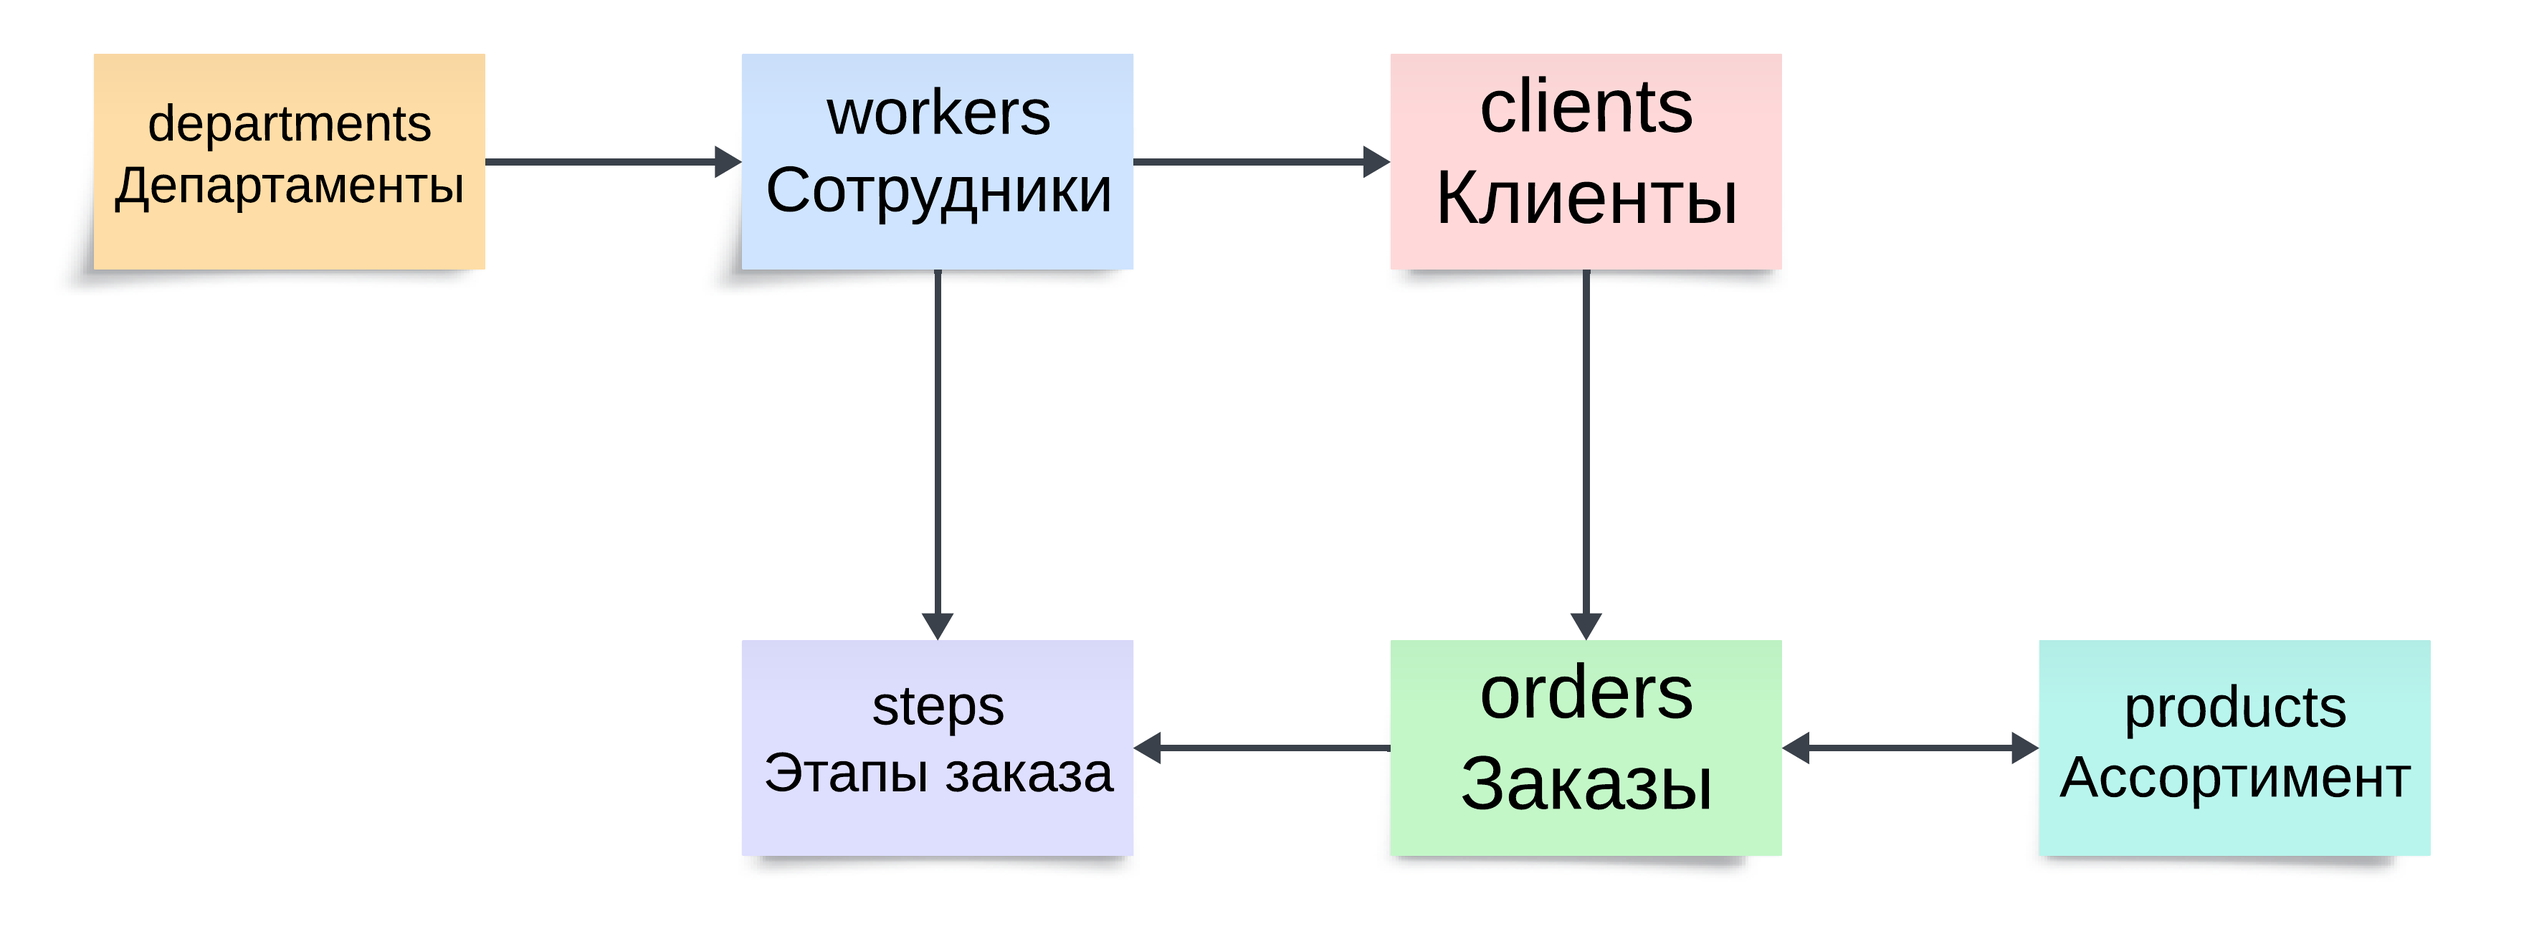
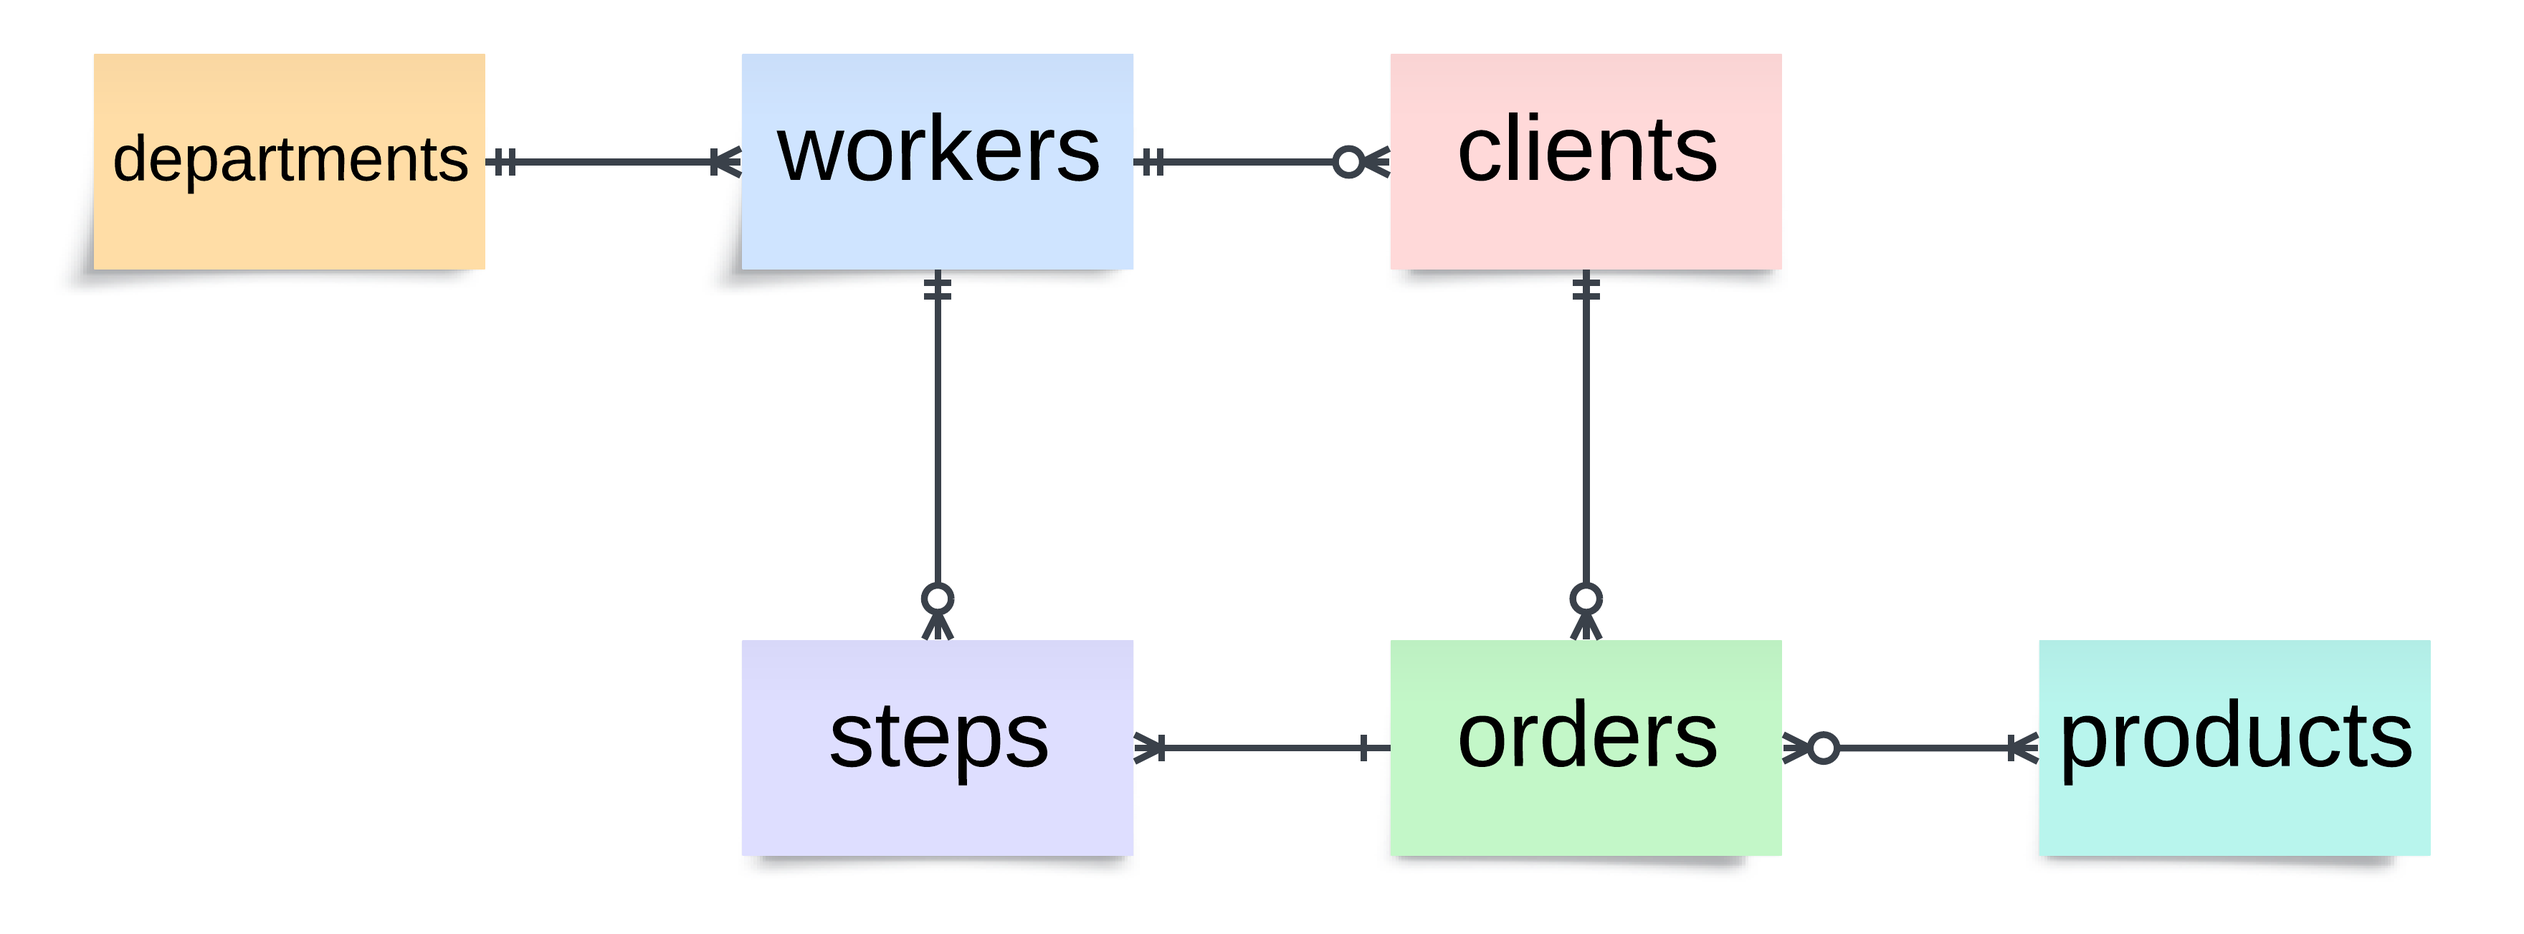
Review fixes

diff --git a/README.md b/README.md
@@ -1,4 +1,30 @@
-# База данных для поставщиков и покупателей металлопродукции и металлопроката.
+<h1 style="font-weight: bold; font-size: 24px;">База данных для поставщиков и покупателей металлопродукции и металлопроката</h1>
+
+## Содержание
+
+- [Содержание](#содержание)
+- [Прототип](#прототип)
+  - [Средне-Уральская трубная компания](#средне-уральская-трубная-компания)
+- [Концептуальное проектирование](#концептуальное-проектирование)
+  - [Предметная область: продажа металлопродукции](#предметная-область-продажа-металлопродукции)
+  - [Не детализированные сущности](#не-детализированные-сущности)
+  - [Сущности связаны следующим образом](#сущности-связаны-следующим-образом)
+  - [Схема модели](#схема-модели)
+- [Логическое проектирование](#логическое-проектирование)
+  - [Нормальная форма](#нормальная-форма)
+  - [Версионирование](#версионирование)
+  - [Схема модели](#схема-модели-1)
+- [Физическое проектирование](#физическое-проектирование)
+  - [Таблица: departments](#таблица-departments)
+  - [Таблица: workers](#таблица-workers)
+  - [Таблица: clients](#таблица-clients)
+  - [Таблица: addresses](#таблица-addresses)
+  - [Таблица: orders](#таблица-orders)
+  - [Таблица: step\_names](#таблица-step_names)
+  - [Таблица: steps](#таблица-steps)
+  - [Таблица: products](#таблица-products)
+  - [Таблица: ordered\_products](#таблица-ordered_products)
+- [Реализация базы данных](#реализация-базы-данных)
 
 ## Прототип
 
@@ -8,13 +34,11 @@
 
 Посмотреть запущенный сайт можно по [ссылке](https://sutk-igorfandre.amvera.io/).
 
-
-
 ## Концептуальное проектирование
 
 ### Предметная область: продажа металлопродукции
 
-### Не детализированные сущности:
+### Не детализированные сущности
 1. `Сотрудники` (с информацией: ID сотрудника, имя, фамилия, отчество, отдел)
 2. `Департаменты` (с информацией: ID департамента, название, контактный телефон, контактная почта)
 3. `Клиенты` (с информацией: ID клиента, название компании, контактное лицо, контактный телефон, ID менеджера, работающего с клиентом, адрес)
@@ -22,7 +46,7 @@
 5. `Этапы заказов` (с информацией: ID этапа, ID заказа, исполнитель, даты начала и конца этапа)
 6. `Продукты` (с информацией: ID товара, название, качество товара (номер ГОСТа), описание, цена единицы товара, количество на складе, вес единицы товара)
 
-### Сущности будут связаны следующим образом:
+### Сущности связаны следующим образом
 1. В каждом департаменте не менее одного сотрудника (**один ко многим**).
 2. На каждом этапе у заказа свой работник-исполнитель. Работник одновременно может брать этапы разных заказов (**один ко многим**).
 3. У каждого клиента по одному менеджеру, привязанному к нему. Один менеджер может работать с несколькими клиентами (**один ко многим**).
@@ -30,11 +54,8 @@
 5. Каждый заказ связан с одним клиентом, у клиента может быть много заказов (**один ко многим**).
 6. Каждый заказ содержит товары и каждый товар может быть в нескольких заказах (**многие ко многим**).
 
-### Схема 1:
+### Схема модели
 ![alt text](./src/entity_concept_map.png)
-
-### Схема 2:
-![alt text](./src/concept_map.png)
 
 
 ## Логическое проектирование
@@ -61,46 +82,110 @@
 
 ## Физическое проектирование
 
-### Файл с реализацией базы данных
+### Таблица: departments
+- `department_id`: SERIAL
+  - Primary Key
+- `name`: VARCHAR(50) 
+  - NOT NULL
+- `phone`: CHAR(16)
+  - phone LIKE '+7(\_ \_ \_)\_ \_ \_-\_ \_-\_ \_'
+- `email`: VARCHAR(50)
+  - email LIKE '%\_@\_ \_%.\_ \_%'
 
-`./sql_scripts/insert.sql`
+### Таблица: workers
+- `worker_id`: SERIAL
+  - **Primary Key**
+- `department_id`: INTEGER
+  - **Foreign Key** --> departments.department_id
+- `name`: VARCHAR(20)
+  - NOT NULL
+- `surname`: VARCHAR(20)
+  - NOT NULL
+- `middle_name`: VARCHAR(20)
 
-### Накладываемые ограничения атрибутов в БД:
+### Таблица: clients
+- `client_id`: SERIAL
+  - **Primary Key**
+- `worker_id`: INTEGER
+  - **Foreign Key** --> workers.worker_id
+- `company`: VARCHAR(50) 
+  - UNIQUE
+- `contact_name`: VARCHAR(65) 
+  - NOT NULL
+- `contact_phone`: CHAR(16)
+  - contact_phone LIKE '+7(\_ \_ \_)\_ \_ \_-\_ \_-\_ \_'
 
-**departments (отделы):**
-   - `name`: обязательное поле
-   - `phone`: ограничение формата телефона, который должен соответствовать шаблону российского номера '+7\(\_ \_ \_ \)\_ \_ \_ \- \_ \_ \- \_ \_'
-   - `email`: ограничение формата электронной почты
+### Таблица: addresses
+- `client_id`: INTEGER 
+  - **Foreign Key** --> clients.client_id
+- `address`: VARCHAR(200)
+  - NOT NULL
+- `from_date`: TIMESTAMP
+  - DEFAULT NOW()
+- `to_date`: TIMESTAMP
+  - DEFAULT '5999-01-01 00:00:00'
+
+### Таблица: orders
+- `order_id`: SERIAL
+  - **Primary Key**
+- `client_id`: INTEGER
+  - **Foreign Key** --> clients.client_id
+- `description`: TEXT
+- `delivery`: BOOLEAN 
+  - NOT NULL
+- `order_date`: TIMESTAMP 
+  - DEFAULT NOW()
+
+### Таблица: step_names
+- `step_id`: SERIAL
+  - **Primary Key**
+- `name`: VARCHAR(15)
+  - NOT NULL
+
+### Таблица: steps
+- `worker_id`: INTEGER
+  - **Foreign Key** --> workers.worker_id
+- `order_id`: INTEGER
+  - **Foreign Key** --> orders.order_id
+- `step_id`: INTEGER
+  - **Foreign Key** --> step_names.step_id
+- `from_date`: DATE
+  - DEFAULT CURRENT_DATE
+- `to_date`: DATE
+- CONSTRAINT `step_combination`: UNIQUE (worker_id, order_id, step_id)
+
+### Таблица: products
+- `product_id`: SERIAL
+  - **Primary Key**
+- `name`: VARCHAR(50)
+  - NOT NULL
+- `quality`: VARCHAR(50)
+- `description`: TEXT
+- `price`: NUMERIC(10, 2)
+  - NOT NULL 
+  - price >= 0
+- `available`: INTEGER
+  - NOT NULL 
+  - available >= 0
+- `weight`: NUMERIC(10, 3)
+  - NOT NULL 
+  - weight >= 0
+
+### Таблица: ordered_products
+- `order_id`: INTEGER
+  - **Foreign Key** --> orders.order_id
+- `product_id`: INTEGER
+  - **Foreign Key** --> products.product_id
+- `count`: INTEGER
+  - NOT NULL 
+  - count > 0
+- CONSTRAINT `order_combination`: UNIQUE (order_id, product_id)
 
 
-**workers (сотрудники):**
-   - `name`: обязательное поле
-   - `surname`: обязательное поле
+## Реализация базы данных
 
-**clients (клиенты):**
-   - `company`: уникальное поле
-   - `contact_name`: обязательное поле
-   - `phone`: ограничение формата телефона, который должен соответствовать шаблону российского номера '+7\(\_ \_ \_ \)\_ \_ \_ \- \_ \_ \- \_ \_'
+1) **[Cоздание базы данных](./sql_scripts/create.sql)**
 
-**addresses (адреса):**
-   - `address`: обязательное поле
-   - `from_date`: по умолчанию NOW()
-   - `to_date`: по умолчанию 5999 год.
+2) **[Заполнение базы данных](./sql_scripts/insert.sql)**
 
-**orders (заказы):**
-   - `delivery`: флаг доставки, обязательное поле
-   - `order_date`: дата заказа, по умолчанию CURRENT_DATE
-
-**steps (шаги):**
-   - `step_combination`: уникальный ключ для комбинации `(worker_id, order_id, step_id)`
-
-**products (продукты):**
-   - `name`: обязательное поле
-   - `price`: числовое поле с двумя знаками после запятой, должно быть неотрицательным
-   - `available`: целочисленное поле, должно быть неотрицательным
-   - `weight`: числовое поле с тремя знаками после запятой, должно быть неотрицательным
-
-**ordered_products (заказанные продукты):**
-   - `count`: целочисленное поле, должно быть больше неотрицательным
-   - `order_combination`: уникальный ключ для комбинации `(order_id, product_id)`
-
+3) **[Примеры запросов к базе данных](./sql_scripts/queries.md)**

diff --git a/sql_scripts/queries.md b/sql_scripts/queries.md
@@ -12,10 +12,10 @@ SELECT
 	END AS client_name,
     SUM(products.price * ordered.count) AS total_price
 FROM sutk.ordered_products AS ordered
-JOIN sutk.products AS products ON products.id = ordered.product_id
-JOIN sutk.orders AS orders ON ordered.order_id = orders.id
-JOIN sutk.clients AS clients ON orders.client_id = clients.id
-GROUP BY clients.id
+JOIN sutk.products AS products ON products.product_id = ordered.product_id
+JOIN sutk.orders AS orders ON ordered.order_id = orders.order_id
+JOIN sutk.clients AS clients ON orders.client_id = clients.client_id
+GROUP BY clients.client_id
 ORDER BY total_price DESC
 LIMIT 5;
 ```
@@ -24,21 +24,21 @@ LIMIT 5;
 
 ```sql
 SELECT
-	cl.id AS client_id,
+	cl.client_id AS client_id,
 	CASE
         WHEN cl.company IS NOT NULL THEN
             '"' || cl.company || '" ' || cl.contact_name
         ELSE
             cl.contact_name
 	END AS client_name,
-	COUNT(ord.id) as orders_cnt
+	COUNT(ord.order_id) as orders_cnt
 FROM sutk.orders AS ord
-JOIN  sutk.clients AS cl ON ord.client_id = cl.id
-GROUP BY cl.id
-HAVING COUNT(ord.id) > (
+JOIN  sutk.clients AS cl ON ord.client_id = cl.client_id
+GROUP BY cl.client_id
+HAVING COUNT(ord.order_id) > (
     SELECT AVG(orders_cnt)
     FROM (
-        SELECT COUNT(sutk.orders.id) as orders_cnt
+        SELECT COUNT(sutk.orders.order_id) as orders_cnt
         FROM sutk.orders
         GROUP BY client_id
     ) AS cnt_orders
@@ -49,26 +49,26 @@ HAVING COUNT(ord.id) > (
 
 ```sql
 SELECT
-    orders.id AS order_id,
+    orders.order_id AS order_id,
     names.name AS step,
     steps.from_date AS start_date
 FROM sutk.steps AS steps
-JOIN sutk.orders AS orders ON steps.order_id = orders.id
-JOIN sutk.clients AS clients ON orders.client_id = clients.id
-JOIN sutk.step_names AS names ON steps.step_id = names.id
+JOIN sutk.orders AS orders ON steps.order_id = orders.order_id
+JOIN sutk.clients AS clients ON orders.client_id = clients.client_id
+JOIN sutk.step_names AS names ON steps.step_id = names.step_id
 WHERE to_date IS NULL
-    AND clients.id = 2;
+    AND clients.client_id = 2;
 ```
 
 ### Узнать адрес, на который нужно доставлять заказ для всех заказов, ожидающих доставки. Заказы, дольше всего ожидающие доставки, располагаем сверху.
 
 ```sql
 SELECT
-    orders.id AS order_id,
+    orders.order_id AS order_id,
     addresses.address,
     steps.from_date
 FROM sutk.steps AS steps
-JOIN sutk.orders AS orders ON steps.order_id = orders.id
+JOIN sutk.orders AS orders ON steps.order_id = orders.order_id
 JOIN sutk.addresses AS addresses ON orders.client_id = addresses.client_id
 WHERE steps.step_id = 4
 	AND steps.to_date IS NULL
@@ -80,7 +80,7 @@ ORDER BY steps.from_date;
 
 ```sql
 SELECT
-    products.id,
+    products.product_id,
     products.name,
     products.available - COALESCE(cl_products.not_available, 0) AS free
 FROM sutk.products AS products
@@ -88,7 +88,7 @@ LEFT JOIN (
     SELECT product_id, SUM(count) as not_available
     FROM sutk.ordered_products
     GROUP BY product_id
-) AS cl_products ON products.id = cl_products.product_id;
+) AS cl_products ON products.product_id = cl_products.product_id;
 ```
 
 ### Каждому сотруднику, обслуживающему клиентов, составить список телефонов его клиентов, на которые он должен позвонить и предложить старые трубы со склада по скидке
@@ -109,7 +109,7 @@ SELECT
             clients.contact_name
 	END AS client
 FROM sutk.clients as clients
-JOIN sutk.workers as workers ON clients.worker_id = workers.id
+JOIN sutk.workers as workers ON clients.worker_id = workers.worker_id
 ORDER BY worker_name;
 ```
 
@@ -127,19 +127,19 @@ SELECT
     dep.phone,
     dep.email
 FROM sutk.clients AS cl
-JOIN sutk.workers AS w ON w.id = cl.worker_id
-JOIN sutk.departments AS dep ON w.department_id = dep.id
+JOIN sutk.workers AS w ON w.worker_id = cl.worker_id
+JOIN sutk.departments AS dep ON w.department_id = dep.department_id
 WHERE cl.company = 'Смит и Ко.';
 ```
 
-### Найти общий вес и стоимость заказа, имеющего sutk.orders.id = 1
+### Найти общий вес и стоимость заказа, имеющего sutk.orders.order_id = 1
 
 ```sql
 SELECT
     SUM(products.price * ordered.count) AS total_price,
     SUM(products.weight * ordered.count) AS total_weight
 FROM sutk.ordered_products AS ordered
-JOIN sutk.products AS products ON products.id = ordered.product_id
+JOIN sutk.products AS products ON products.product_id = ordered.product_id
 WHERE ordered.order_id = 1;
 ```
 
@@ -150,7 +150,7 @@ SELECT
 	SUM(products.weight * ordered.count) AS total_weight,
     CEIL(SUM(products.weight * ordered.count) / 0.5) AS cars
 FROM sutk.ordered_products AS ordered
-JOIN sutk.products AS products ON products.id = ordered.product_id
+JOIN sutk.products AS products ON products.product_id = ordered.product_id
 WHERE ordered.order_id = 1;
 ```
 
@@ -166,7 +166,7 @@ SELECT
 	END AS client_name,
     addresses.address
 FROM sutk.clients AS clients
-LEFT JOIN sutk.addresses AS addresses ON clients.id = addresses.client_id
+LEFT JOIN sutk.addresses AS addresses ON clients.client_id = addresses.client_id
 WHERE NOW() BETWEEN addresses.from_date AND addresses.to_date
     OR addresses.from_date IS NULL;
 ```
